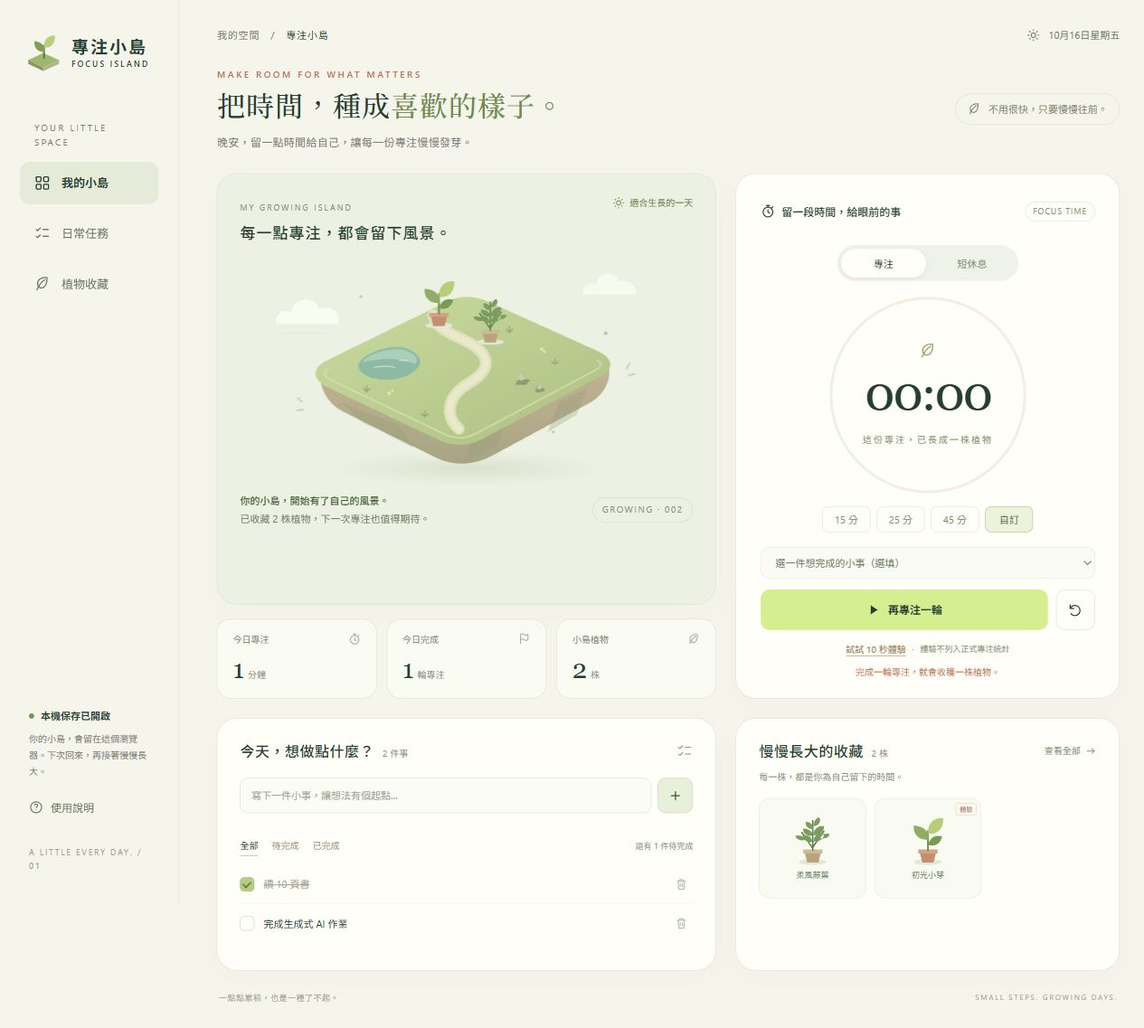
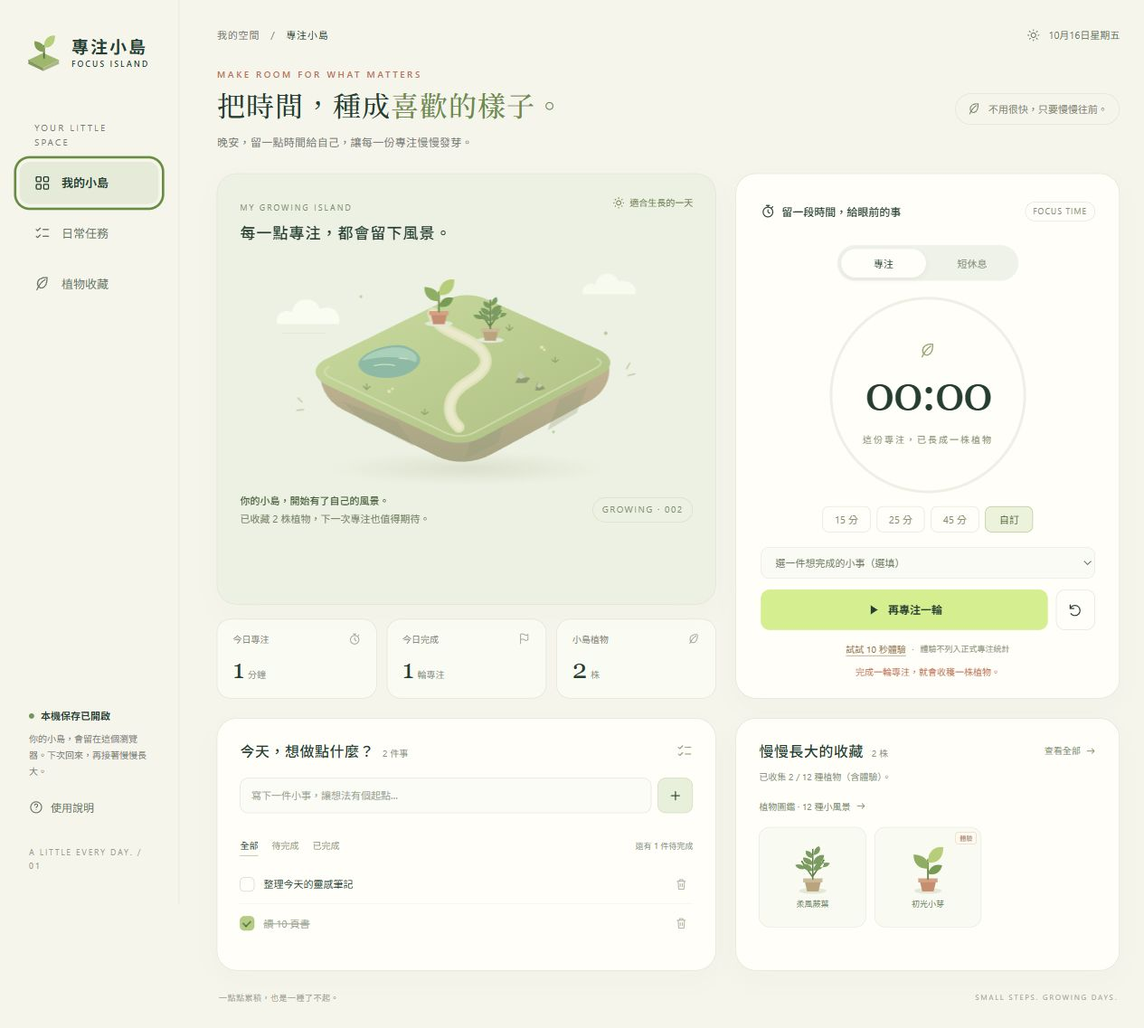
feat: expand plant collection to twelve species with a browsable catalog

diff --git a/index.html b/index.html
@@ -44,6 +44,149 @@
     <symbol id="plant-fern" viewBox="0 0 100 110"><ellipse cx="50" cy="99" rx="24" ry="5" fill="#e2e8d5"/><path d="M35 79h30l-5 21H40Z" fill="#baa480"/><path d="M33 77h34v7H33Z" fill="#caba98"/><path d="M50 79V25m0 50L30 46m20 27 20-29" fill="none" stroke="#60804b" stroke-width="2.5"/><path d="M49 64c-12 1-16-6-17-12 10-2 17 4 17 12m1-11c-13 1-18-7-17-13 10 0 17 5 17 13m0-12c-10 0-14-7-12-13 9 1 13 6 12 13m1-5c1-10 5-14 10-16 5 8-1 15-10 16m0 16c0-11 9-18 19-16-1 10-6 16-19 16m0 11c1-11 9-16 19-14-1 10-8 15-19 14M37 60c-9 3-16-1-18-7 8-2 15 0 18 7m25-3c9 2 16-1 18-7-8-3-15 1-18 7" fill="#7b9b61"/></symbol>
     <symbol id="plant-bloom" viewBox="0 0 100 110"><ellipse cx="50" cy="99" rx="24" ry="5" fill="#e2e8d5"/><path d="M35 79h30l-5 21H40Z" fill="#b28d72"/><path d="M33 77h34v7H33Z" fill="#cba68b"/><path d="M50 78V41m0 26L36 55m14 8 14-12" fill="none" stroke="#748a50" stroke-width="2.5"/><path d="M49 68c-17 2-22-8-23-14 14-3 23 5 23 14m2-5c1-15 10-20 22-17-2 14-10 18-22 17" fill="#9cb374"/><g fill="#cb9b7f"><ellipse cx="50" cy="29" rx="7" ry="13"/><ellipse cx="50" cy="48" rx="7" ry="13"/><ellipse cx="40" cy="36" rx="7" ry="13" transform="rotate(-60 40 36)"/><ellipse cx="60" cy="36" rx="7" ry="13" transform="rotate(60 60 36)"/><ellipse cx="41" cy="46" rx="7" ry="13" transform="rotate(60 41 46)"/><ellipse cx="59" cy="46" rx="7" ry="13" transform="rotate(-60 59 46)"/></g><circle cx="50" cy="39" r="8" fill="#e5d8a1"/></symbol>
     <symbol id="plant-tree" viewBox="0 0 100 110"><ellipse cx="50" cy="100" rx="25" ry="5" fill="#e2e8d5"/><path d="M36 81h28l-5 20H41Z" fill="#bd9274"/><path d="M34 79h32v6H34Z" fill="#d0a78a"/><path d="M50 80V40m0 23L37 49m13 6 13-14" fill="none" stroke="#877c51" stroke-width="3"/><path d="M32 60c-13-4-13-21-3-27-1-13 10-22 22-17 12-7 25 3 23 16 12 10 8 26-6 30-8 11-26 10-36-2Z" fill="#91ad69"/><path d="M31 48c-5-6-3-14 3-17 1-11 13-17 22-11-8 3-6 15-1 18-6 10-15 13-24 10Z" fill="#adc783"/><circle cx="65" cy="45" r="4" fill="#cddc9b"/></symbol>
+    <symbol id="plant-cactus" viewBox="0 0 100 110">
+  <ellipse cx="50" cy="99" rx="24" ry="5" fill="#e2e8d5"/>
+  <path d="M50 80V40M48 62H35c-6 0-9-4-9-10V44m26 23h14c6 0 10-4 10-10V48" fill="none" stroke="#71945d" stroke-width="13" stroke-linecap="round" stroke-linejoin="round"/>
+  <path d="M50 77V36" fill="none" stroke="#8faa70" stroke-width="20" stroke-linecap="round"/>
+  <path d="M47 36v40m8-36v34M26 44v9m50-4v9" fill="none" stroke="#b5cb92" stroke-width="1.8" stroke-linecap="round"/>
+  <path d="m41 47 3 1m12 8 3-1m-18 8 3 1m12-21 3 1" stroke="#d8e3bc" stroke-width="1.6" stroke-linecap="round"/>
+  <path d="M50 29c-12-1-14-11-7-13 3-1 6 2 7 6 2-7 9-9 12-4 3 6-5 11-12 11Z" fill="#d4a195"/>
+  <circle cx="51" cy="26" r="3" fill="#e9d6a6"/>
+  <path d="M35 79h30l-5 21H40Z" fill="#c68e70"/>
+  <path d="M33 77h34v7H33Z" fill="#d4a185"/>
+</symbol>
+<symbol id="plant-succulent" viewBox="0 0 100 110">
+  <ellipse cx="50" cy="99" rx="24" ry="5" fill="#e2e8d5"/>
+  <path d="M50 78C22 77 14 60 17 46c20 1 31 12 33 32Z" fill="#7f9c77"/>
+  <path d="M50 78c28-1 36-18 33-32-20 1-31 12-33 32Z" fill="#94af83"/>
+  <path d="M49 76C24 62 25 42 33 31c17 8 23 23 16 45Z" fill="#a5bd91"/>
+  <path d="M51 76c25-14 24-34 16-45-17 8-23 23-16 45Z" fill="#7f9f77"/>
+  <path d="M50 74C34 56 36 34 50 21c14 13 16 35 0 53Z" fill="#b6c9a0"/>
+  <path d="M50 78C31 80 23 71 21 60c16-2 27 5 29 18Z" fill="#a9bd8b"/>
+  <path d="M50 78c19 2 27-7 29-18-16-2-27 5-29 18Z" fill="#bccb9a"/>
+  <path d="M50 78c-11-11-10-25 0-35 10 10 11 24 0 35Z" fill="#8eaa76"/>
+  <path d="M50 77V54" stroke="#c7d5ad" stroke-width="1.5" stroke-linecap="round"/>
+  <path d="M34 79h32l-5 21H39Z" fill="#bd9274"/>
+  <path d="M32 77h36v7H32Z" fill="#d0a78a"/>
+</symbol>
+<symbol id="plant-monstera" viewBox="0 0 100 110">
+  <ellipse cx="50" cy="99" rx="24" ry="5" fill="#e2e8d5"/>
+  <path d="M49 81V58c0-13 10-18 14-24M49 67c-1-15-8-20-16-25" fill="none" stroke="#66854f" stroke-width="3" stroke-linecap="round"/>
+  <path d="M44 61C28 63 14 53 16 39c1-10 9-16 16-12 5-6 14-3 18 5 4 8 3 20-6 29Zm-20-21c-2 4 1 8 4 7 3-1 1-8-4-7Zm14-6c-3 2-1 8 2 8 4 0 3-8-2-8Z" fill="#89a56b" fill-rule="evenodd"/>
+  <path d="m19 49 9 1m-1-20 2 8m9 19 1-9" fill="none" stroke="#e9efda" stroke-width="3" stroke-linecap="round"/>
+  <path d="M54 56c-7-12-9-28 2-36 7-5 13-2 15 3 9-2 15 5 15 14 0 14-14 25-32 19Zm4-25c-3 1-3 8 0 9 4 1 6-9 0-9Zm14 1c-4 2-5 8-1 8 4 0 7-9 1-8Z" fill="#63895c" fill-rule="evenodd"/>
+  <path d="m81 29-7 6m9 11-11-1m-8 10 2-9" fill="none" stroke="#e9efda" stroke-width="3.2" stroke-linecap="round"/>
+  <path d="m43 58-12-15m24 9 13-20" fill="none" stroke="#a9bf86" stroke-width="1.4" stroke-linecap="round"/>
+  <path d="M35 79h30l-5 21H40Z" fill="#c68e70"/>
+  <path d="M33 77h34v7H33Z" fill="#d4a185"/>
+</symbol>
+<symbol id="plant-sunflower" viewBox="0 0 100 110">
+  <ellipse cx="50" cy="99" rx="24" ry="5" fill="#e2e8d5"/>
+  <path d="M50 80V40" stroke="#748a50" stroke-width="3" stroke-linecap="round"/>
+  <path d="M49 70C30 72 24 62 25 54c16-1 24 5 24 16Z" fill="#8faa66"/>
+  <path d="M51 64c0-14 11-21 23-19-1 15-10 21-23 19Z" fill="#a5bc79"/>
+  <g fill="#e1c675">
+    <ellipse cx="50" cy="21" rx="6" ry="11"/>
+    <ellipse cx="50" cy="21" rx="6" ry="11" transform="rotate(45 50 33)"/>
+    <ellipse cx="50" cy="21" rx="6" ry="11" transform="rotate(90 50 33)"/>
+    <ellipse cx="50" cy="21" rx="6" ry="11" transform="rotate(135 50 33)"/>
+    <ellipse cx="50" cy="21" rx="6" ry="11" transform="rotate(180 50 33)"/>
+    <ellipse cx="50" cy="21" rx="6" ry="11" transform="rotate(225 50 33)"/>
+    <ellipse cx="50" cy="21" rx="6" ry="11" transform="rotate(270 50 33)"/>
+    <ellipse cx="50" cy="21" rx="6" ry="11" transform="rotate(315 50 33)"/>
+  </g>
+  <circle cx="50" cy="33" r="11" fill="#9d8056"/>
+  <circle cx="47" cy="30" r="2" fill="#c6a774"/>
+  <circle cx="54" cy="31" r="1.6" fill="#c6a774"/>
+  <circle cx="50" cy="37" r="1.8" fill="#c6a774"/>
+  <path d="M35 79h30l-5 21H40Z" fill="#b78f71"/>
+  <path d="M33 77h34v7H33Z" fill="#cfa68a"/>
+</symbol>
+<symbol id="plant-lavender" viewBox="0 0 100 110">
+  <ellipse cx="50" cy="99" rx="24" ry="5" fill="#e2e8d5"/>
+  <path d="M48 80 36 36m16 44 12-43M50 80V22" fill="none" stroke="#7e936e" stroke-width="2.5" stroke-linecap="round"/>
+  <path d="M45 71C30 66 24 55 27 49c10 5 16 12 18 22m10 0c15-5 21-16 18-22-10 5-16 12-18 22m-5 4c-10-8-11-18-7-24 6 6 8 14 7 24" fill="#9db085"/>
+  <g fill="#a299b8">
+    <ellipse cx="32" cy="41" rx="4.5" ry="7" transform="rotate(-28 32 41)"/>
+    <ellipse cx="38" cy="45" rx="4.5" ry="7" transform="rotate(25 38 45)"/>
+    <ellipse cx="31" cy="33" rx="4.5" ry="7" transform="rotate(-28 31 33)"/>
+    <ellipse cx="37" cy="37" rx="4.5" ry="7" transform="rotate(25 37 37)"/>
+    <ellipse cx="32" cy="27" rx="4" ry="6"/>
+    <ellipse cx="61" cy="46" rx="4.5" ry="7" transform="rotate(-25 61 46)"/>
+    <ellipse cx="68" cy="41" rx="4.5" ry="7" transform="rotate(28 68 41)"/>
+    <ellipse cx="63" cy="38" rx="4.5" ry="7" transform="rotate(-25 63 38)"/>
+    <ellipse cx="69" cy="33" rx="4.5" ry="7" transform="rotate(28 69 33)"/>
+    <ellipse cx="68" cy="27" rx="4" ry="6"/>
+  </g>
+  <g fill="#8d82a9">
+    <ellipse cx="46" cy="34" rx="4.5" ry="7" transform="rotate(-30 46 34)"/>
+    <ellipse cx="54" cy="34" rx="4.5" ry="7" transform="rotate(30 54 34)"/>
+    <ellipse cx="46" cy="26" rx="4.5" ry="7" transform="rotate(-30 46 26)"/>
+    <ellipse cx="54" cy="26" rx="4.5" ry="7" transform="rotate(30 54 26)"/>
+    <ellipse cx="50" cy="17" rx="4.5" ry="7"/>
+  </g>
+  <path d="M35 79h30l-5 21H40Z" fill="#b78f78"/>
+  <path d="M33 77h34v7H33Z" fill="#cda78d"/>
+</symbol>
+<symbol id="plant-tulip" viewBox="0 0 100 110">
+  <ellipse cx="50" cy="99" rx="24" ry="5" fill="#e2e8d5"/>
+  <path d="M50 80V43M44 80 31 53m25 27 13-27" fill="none" stroke="#7b925d" stroke-width="2.5" stroke-linecap="round"/>
+  <path d="M49 80C29 73 22 58 23 46c15 8 24 20 26 34Z" fill="#91aa6e"/>
+  <path d="M52 80c1-18 10-31 24-39 0 18-8 31-24 39Z" fill="#aac081"/>
+  <path d="M50 80C39 67 38 54 42 45c9 10 12 22 8 35Z" fill="#b8ca8f"/>
+  <path d="M36 23c6 0 10 5 14 10 4-5 8-10 14-10l-1 15c-1 10-6 16-13 16s-12-6-13-16Z" fill="#cf9b92"/>
+  <path d="M42 24c3-2 6-5 8-9 3 4 5 7 8 9l-2 18c-1 6-3 9-6 11-4-3-6-7-6-13Z" fill="#e0b0a6"/>
+  <path d="M21 37c4 0 7 4 10 7 3-3 6-7 10-7l-1 11c0 8-4 12-9 12s-9-4-9-12Z" fill="#d7b797"/>
+  <path d="m25 38 6-7 6 7-2 15-4 6-4-6Z" fill="#e5c9a8"/>
+  <path d="M59 35c4 0 7 4 10 7 3-3 6-7 10-7l-1 12c0 8-4 12-9 12s-9-4-9-12Z" fill="#ba8d9c"/>
+  <path d="m63 36 6-7 6 7-2 16-4 6-4-6Z" fill="#d0a5b0"/>
+  <path d="M35 79h30l-5 21H40Z" fill="#c0957b"/>
+  <path d="M33 77h34v7H33Z" fill="#d3ad93"/>
+</symbol>
+<symbol id="plant-bamboo" viewBox="0 0 100 110">
+  <ellipse cx="50" cy="99" rx="24" ry="5" fill="#e2e8d5"/>
+  <path d="M37 80V31m13 49V18m13 62V27" fill="none" stroke="#8fa66a" stroke-width="7" stroke-linecap="round"/>
+  <path d="M35 78V33m13 45V20m13 58V29" fill="none" stroke="#b7c68d" stroke-width="1.5" stroke-linecap="round"/>
+  <path d="M33 44h8m-8 17h8m5-27h8m-8 20h8m-8 17h8m5-29h8m-8 19h8" stroke="#6f8656" stroke-width="2" stroke-linecap="round"/>
+  <path d="M37 48C22 47 14 39 13 32c11 2 19 7 24 16m0 12c-15 1-23-4-26-11 12-1 21 3 26 11m13-22c-13-2-20-9-21-17 10 2 17 8 21 17m1 15c7-12 17-17 28-16-5 10-15 15-28 16m12-13c6-13 15-19 24-19-3 10-11 17-24 19m0 18c10-9 20-11 29-7-7 7-17 9-29 7" fill="#7f9a5f"/>
+  <path d="M37 67c-8-8-17-11-25-8 6 7 14 10 25 8m14-41c6-9 12-12 19-11-3 8-9 12-19 11m12 43c8-7 15-9 22-6-5 6-12 8-22 6" fill="#a5ba7b"/>
+  <path d="M34 79h32l-5 21H39Z" fill="#bb9073"/>
+  <path d="M32 77h36v7H32Z" fill="#cfa488"/>
+</symbol>
+<symbol id="plant-sakura" viewBox="0 0 100 110">
+  <ellipse cx="50" cy="99" rx="24" ry="5" fill="#e2e8d5"/>
+  <path d="M50 81V52L34 36m16 29 19-22M50 54l6-23" fill="none" stroke="#96816a" stroke-width="3.5" stroke-linecap="round" stroke-linejoin="round"/>
+  <path d="m34 38-11-3m12 3 1-15m20 13 13-9m-1 19 10 3" fill="none" stroke="#a48e74" stroke-width="2" stroke-linecap="round"/>
+  <g fill="#d5a7a7">
+    <circle cx="24" cy="31" r="11"/>
+    <circle cx="37" cy="23" r="12"/>
+    <circle cx="54" cy="27" r="13"/>
+    <circle cx="69" cy="27" r="10"/>
+    <circle cx="77" cy="42" r="12"/>
+    <circle cx="62" cy="46" r="13"/>
+    <circle cx="43" cy="43" r="13"/>
+    <circle cx="27" cy="46" r="10"/>
+  </g>
+  <g fill="#e6beb8">
+    <circle cx="23" cy="28" r="8"/>
+    <circle cx="37" cy="20" r="9"/>
+    <circle cx="52" cy="24" r="10"/>
+    <circle cx="70" cy="25" r="7"/>
+    <circle cx="76" cy="39" r="8"/>
+    <circle cx="59" cy="43" r="9"/>
+    <circle cx="38" cy="40" r="9"/>
+  </g>
+  <g fill="#f5dfcd">
+    <circle cx="36" cy="23" r="2.2"/>
+    <circle cx="53" cy="32" r="2.2"/>
+    <circle cx="72" cy="41" r="2.2"/>
+    <circle cx="30" cy="43" r="2"/>
+  </g>
+  <path d="M69 59c5-2 8 0 7 4-5 2-8 0-7-4Z" fill="#e5bab2"/>
+  <path d="M24 61c4-1 7 1 6 4-4 1-7-1-6-4Z" fill="#d9aba8"/>
+  <path d="M35 79h30l-5 21H40Z" fill="#bd9274"/>
+  <path d="M33 77h34v7H33Z" fill="#d0a78a"/>
+</symbol>
   </defs></svg>
   <aside class="sidebar" aria-label="主要導覽">
     <a class="brand" href="#main" aria-label="專注小島首頁"><svg class="brand-mark" viewBox="0 0 45 48" aria-hidden="true"><path d="m3 34 19 10 20-10-20-9Z" fill="#9eb76d"/><path d="m3 34 19 10v4L3 39Z" fill="#849860"/><path d="m22 44 20-10v5L22 48Z" fill="#aab786"/><path d="M23 32V15" fill="none" stroke="#536d40" stroke-width="2"/><path d="M23 24C11 23 10 14 11 10c9 1 14 6 12 14Z" fill="#829d55"/><path d="M23 18C22 6 31 2 37 3c0 10-5 16-14 15Z" fill="#b7ce7c"/></svg><span class="brand-name">專注小島<small>FOCUS ISLAND</small></span></a>
@@ -81,23 +224,24 @@
       </section>
     </div>
     <div class="bottom-grid"><section class="card tasks-card" id="tasks" aria-labelledby="tasksTitle"><div class="card-heading"><div class="heading-group"><h2 id="tasksTitle">今天，想做點什麼？</h2><span class="small-count" id="taskTotal">0 件事</span></div><svg class="icon" style="color:#9caa83;width:18px;height:18px" aria-hidden="true"><use href="#i-checklist"/></svg></div><form class="task-form" id="taskForm" novalidate><label class="sr-only" for="taskInput">新增任務，1 至 80 字</label><input class="task-input" id="taskInput" type="text" maxlength="80" placeholder="寫下一件小事，讓想法有個起點…" autocomplete="off" aria-describedby="taskError"><button type="submit" class="add-button" aria-label="新增任務"><svg class="icon" aria-hidden="true"><use href="#i-plus"/></svg></button></form><p class="field-error" id="taskError" aria-live="polite"></p><div class="filter-row"><div class="filters" aria-label="篩選任務"><button type="button" data-filter="all" aria-pressed="true">全部</button><button type="button" data-filter="pending" aria-pressed="false">待完成</button><button type="button" data-filter="done" aria-pressed="false">已完成</button></div><span class="remaining-count" id="remainingCount">還有 0 件待完成</span></div><ul class="task-list" id="taskList" aria-label="任務清單"></ul><div class="empty-tasks" id="emptyTasks"><p>大大小小的事，都值得好好完成。</p><small>從一個建議開始，或寫下你自己的任務。</small><div class="suggestions"><button type="button" class="suggestion" data-suggestion="讀 10 頁喜歡的書">建議：讀 10 頁書 ＋</button><button type="button" class="suggestion" data-suggestion="整理今天的課堂筆記">建議：整理筆記 ＋</button><button type="button" class="suggestion" data-suggestion="留一段時間完成作業">建議：完成作業 ＋</button></div></div></section>
-      <section class="card collection-card" id="collection" aria-labelledby="collectionTitle"><div class="card-heading"><div class="heading-group"><h2 id="collectionTitle">慢慢長大的收藏</h2><span class="small-count" id="collectionCount">0 株</span></div><button type="button" class="text-button" id="allPlantsButton">查看全部<svg class="icon" aria-hidden="true"><use href="#i-arrow"/></svg></button></div><p class="collection-subtitle">每一株，都是你為自己留下的時間。</p><div class="plant-grid" id="collectionGrid"></div><div class="empty-garden" id="emptyGarden"><svg class="icon" aria-hidden="true"><use href="#i-leaf"/></svg><p>你的小花園，正等著第一株新朋友。</p><small>完成專注，讓這裡一點一點熱鬧起來。</small></div></section></div>
+      <section class="card collection-card" id="collection" aria-labelledby="collectionTitle"><div class="card-heading"><div class="heading-group"><h2 id="collectionTitle">慢慢長大的收藏</h2><span class="small-count" id="collectionCount">0 株</span></div><button type="button" class="text-button" id="allPlantsButton">查看全部<svg class="icon" aria-hidden="true"><use href="#i-arrow"/></svg></button></div><p class="collection-subtitle" id="collectionDiversity">每一株，都是你為自己留下的時間。</p><button type="button" class="text-button" id="catalogButton" style="margin-bottom:14px">植物圖鑑 · 12 種小風景<svg class="icon" aria-hidden="true"><use href="#i-arrow"/></svg></button><div class="plant-grid" id="collectionGrid"></div><div class="empty-garden" id="emptyGarden"><svg class="icon" aria-hidden="true"><use href="#i-leaf"/></svg><p>你的小花園，正等著第一株新朋友。</p><small>完成專注，讓這裡一點一點熱鬧起來。</small></div></section></div>
     <footer class="page-footer"><span>一點點累積，也是一種了不起。</span><button type="button" class="text-button mobile-help" id="mobileHelpButton" style="display:none"><svg class="icon" aria-hidden="true"><use href="#i-help"/></svg>使用說明與保存狀態</button><span>SMALL STEPS. GROWING DAYS.</span></footer>
   </main>
-  <dialog id="helpDialog" aria-labelledby="helpTitle"><button type="button" class="dialog-close" data-close="helpDialog" aria-label="關閉使用說明"><svg class="icon" aria-hidden="true"><use href="#i-close"/></svg></button><div class="eyebrow">A LITTLE GUIDE</div><h2 id="helpTitle">讓專注，慢慢長成日常。</h2><ul><li>寫下任務，選擇 15、25、45 分鐘，或自訂 <strong>1–60 分鐘</strong>，再按「開始專注」。</li><li>完成一輪正式專注，收穫一株植物。今日統計只計算已完成的正式專注；暫停或重設不會獲得植物。專注任務完成後，請自行打勾。</li><li><strong>10 秒體驗</strong>也會獲得一株標示「體驗」的植物，但不計入正式專注分鐘與輪數。短休息固定 5 分鐘，不會種植。</li><li>切換分頁或重新整理後，計時會依實際時間繼續；下次開啟時，已完成的一輪只會獎勵一次。關閉網頁時不會發出通知。</li><li>資料保存在<strong>目前瀏覽器的本機儲存空間</strong>，不會上傳，也不會跨裝置同步。清除網站資料、使用無痕模式、變更瀏覽器，或從本機檔案改到網站網址，可能看不到原本的資料。</li></ul><p id="helpStorageState"></p><div class="dialog-actions"><button type="button" class="primary-button" data-close="helpDialog">開始慢慢長大</button></div></dialog>
+  <dialog id="helpDialog" aria-labelledby="helpTitle"><button type="button" class="dialog-close" data-close="helpDialog" aria-label="關閉使用說明"><svg class="icon" aria-hidden="true"><use href="#i-close"/></svg></button><div class="eyebrow">A LITTLE GUIDE</div><h2 id="helpTitle">讓專注，慢慢長成日常。</h2><ul><li>寫下任務，選擇 15、25、45 分鐘，或自訂 <strong>1–60 分鐘</strong>，再按「開始專注」。</li><li>完成一輪正式專注，收穫一株植物。今日統計只計算已完成的正式專注；暫停或重設不會獲得植物。專注任務完成後，請自行打勾。</li><li><strong>10 秒體驗</strong>也會獲得一株標示「體驗」的植物，但不計入正式專注分鐘與輪數。短休息固定 5 分鐘，不會種植。</li><li>共有 <strong>12 種植物</strong>，依完成輪次循環出現。可打開「植物圖鑑」預覽每種造型；預覽不會增加植物或成果。</li><li>切換分頁或重新整理後，計時會依實際時間繼續；下次開啟時，已完成的一輪只會獎勵一次。關閉網頁時不會發出通知。</li><li>資料保存在<strong>目前瀏覽器的本機儲存空間</strong>，不會上傳，也不會跨裝置同步。清除網站資料、使用無痕模式、變更瀏覽器，或從本機檔案改到網站網址，可能看不到原本的資料。</li></ul><p id="helpStorageState"></p><div class="dialog-actions"><button type="button" class="primary-button" data-close="helpDialog">開始慢慢長大</button></div></dialog>
   <dialog id="confirmDialog" aria-labelledby="confirmTitle" aria-describedby="confirmText"><h2 id="confirmTitle">要重新開始這一輪嗎？</h2><p id="confirmText">目前的計時進度將會清除，這一輪不會獲得植物。</p><div class="dialog-actions"><button type="button" class="secondary-button" id="cancelConfirm">保留計時</button><button type="button" class="primary-button" id="acceptConfirm">確定重新開始</button></div></dialog>
   <dialog id="customDialog" aria-labelledby="customTitle"><button type="button" class="dialog-close" data-close="customDialog" aria-label="關閉自訂時長"><svg class="icon" aria-hidden="true"><use href="#i-close"/></svg></button><div class="eyebrow">YOUR OWN PACE</div><h2 id="customTitle">找到剛剛好的節奏。</h2><form id="customForm" novalidate><label class="custom-label" for="customMinutes">想專注多久？</label><div class="custom-field"><input id="customMinutes" type="number" min="1" max="60" step="1" inputmode="numeric" value="25" aria-describedby="customError"><span>分鐘（1–60）</span></div><p class="field-error" id="customError" aria-live="polite"></p><div class="dialog-actions"><button type="button" class="secondary-button" data-close="customDialog">先不調整</button><button type="submit" class="primary-button">設定專注時間</button></div></form></dialog>
   <dialog id="plantDialog" aria-labelledby="plantDetailTitle"><button type="button" class="dialog-close" data-close="plantDialog" aria-label="關閉植物介紹"><svg class="icon" aria-hidden="true"><use href="#i-close"/></svg></button><span class="detail-label" id="plantDetailLabel">A MOMENT, A LITTLE GROWTH</span><svg class="detail-plant" viewBox="0 0 100 110" aria-hidden="true"><use id="plantDetailArt" href="#plant-sprout"/></svg><h2 class="detail-title" id="plantDetailTitle"></h2><p class="detail-info" id="plantDetailInfo"></p><p class="detail-info" id="plantDetailMessage"></p><div class="dialog-actions"><button type="button" class="primary-button" data-close="plantDialog">好好收藏</button></div></dialog>
   <dialog class="garden-dialog" id="gardenDialog" aria-labelledby="gardenDialogTitle"><button type="button" class="dialog-close" data-close="gardenDialog" aria-label="關閉全部收藏"><svg class="icon" aria-hidden="true"><use href="#i-close"/></svg></button><div class="eyebrow">EVERY LITTLE EFFORT COUNTS</div><h2 id="gardenDialogTitle">你留下的每一份專注。</h2><p id="gardenDialogDescription"></p><div class="plant-grid" id="allPlantsGrid"></div><button type="button" class="secondary-button load-more" id="loadMorePlants">再看看更多植物</button></dialog>
+  <dialog class="garden-dialog" id="catalogDialog" aria-labelledby="catalogTitle"><button type="button" class="dialog-close" data-close="catalogDialog" aria-label="關閉植物圖鑑"><svg class="icon" aria-hidden="true"><use href="#i-close"/></svg></button><div class="eyebrow">TWELVE WAYS TO GROW</div><h2 id="catalogTitle">把小島，種成更多可能。</h2><p id="catalogDescription"></p><div class="plant-grid" id="catalogGrid"></div><p>每完成一輪專注或 10 秒體驗，依序遇見一款植物；12 種輪流出現，每一株都會保留。</p></dialog>
   <div class="toast" id="toast"><span id="toastText"></span><button type="button" id="undoButton" hidden>撤銷刪除</button></div><div class="sr-only" id="announcer" role="status" aria-live="polite" aria-atomic="true"></div><div class="leaf-burst" id="leafBurst" aria-hidden="true"></div>
   <script>
   (() => {
     'use strict';
     const STORAGE_KEY = 'focus-island:v1';
     const $ = id => document.getElementById(id);
-    const species = ['sprout', 'fern', 'bloom', 'tree'];
-    const plantNames = {sprout:'初光小芽',fern:'柔風蕨葉',bloom:'暖陽小花',tree:'安靜小樹'};
-    const plantMessages = {sprout:'每個小小的開始，都藏著慢慢長大的可能。',fern:'一步一步地舒展，找到屬於自己的節奏。',bloom:'認真照顧的時間，終於開成了一朵小花。',tree:'今天留下的專注，會成為明天溫柔的樹蔭。'};
+    const species = ['sprout', 'fern', 'bloom', 'tree', 'cactus', 'succulent', 'monstera', 'sunflower', 'lavender', 'tulip', 'bamboo', 'sakura'];
+    const plantNames = {sprout:'初光小芽',fern:'柔風蕨葉',bloom:'暖陽小花',tree:'安靜小樹',cactus:'晴日仙人掌',succulent:'圓夢多肉',monstera:'森呼吸龜背芋',sunflower:'向光向日葵',lavender:'暮色薰衣草',tulip:'春日鬱金香',bamboo:'節節青竹',sakura:'微風櫻花'};
+    const plantMessages = {sprout:'每個小小的開始，都藏著慢慢長大的可能。',fern:'一步一步地舒展，找到屬於自己的節奏。',bloom:'認真照顧的時間，終於開成了一朵小花。',tree:'今天留下的專注，會成為明天溫柔的樹蔭。',cactus:'慢一點也沒關係，你正用自己的方式好好生長。',succulent:'把小小的努力存起來，日常也能變得圓滿可愛。',monstera:'給想法一點空間，讓專注慢慢舒展成新的風景。',sunflower:'朝著想去的方向，再向前一小步就很好。',lavender:'把紛亂的念頭放輕，為自己留一段安靜的時間。',tulip:'不急著盛開，每一段準備都有自己的意義。',bamboo:'今天的一小節努力，正在接近明天的自己。',sakura:'認真生活的小片刻，也值得被溫柔收藏。'};
     const svgNS = 'http://www.w3.org/2000/svg';
     let filter = 'all', toastTimeout, undoTask = null, storageIssue = '', gardenLimit = 24, lastDate = '';
     let confirmResolve = null;
@@ -201,6 +345,8 @@
       $('emptyGarden').style.display=state.plants.length>0?'none':'flex';
       $('allPlantsButton').disabled=state.plants.length===0;
       renderStats();renderIsland();
+      $('collectionDiversity').textContent='已收集 '+new Set(state.plants.map(p=>p.species)).size+' / '+species.length+' 種植物（含體驗）。';
+      if($('catalogDialog').open)renderCatalog();
       if($('gardenDialog').open) renderAllPlants();
     }
     function showPlant(plant) {
@@ -210,6 +356,26 @@
       const formatted=new Intl.DateTimeFormat('zh-TW',{year:'numeric',month:'long',day:'numeric',hour:'2-digit',minute:'2-digit'}).format(new Date(plant.createdAt));
       $('plantDetailInfo').textContent=formatted+' · '+(plant.demo?'10 秒體驗植物，不列入正式專注統計。':'完成 '+plant.minutes+' 分鐘專注的紀念。');
       $('plantDetailMessage').textContent=plantMessages[plant.species];$('plantDialog').showModal();
+    }
+    function showSpecies(kind) {
+      const count=state.plants.filter(p=>p.species===kind).length;
+      $('plantDetailArt').setAttribute('href','#plant-'+kind);
+      $('plantDetailLabel').textContent='植物圖鑑 · '+(species.indexOf(kind)+1)+' / '+species.length;
+      $('plantDetailTitle').textContent=plantNames[kind];
+      $('plantDetailInfo').textContent=count?'已收藏 '+count+' 株（含體驗），每一株都是你留下的時間。':'尚未收集。完成倒數，依序遇見這一款小風景。';
+      $('plantDetailMessage').textContent=plantMessages[kind];$('plantDialog').showModal();
+    }
+    function renderCatalog() {
+      const owned=new Set(state.plants.map(p=>p.species));
+      $('catalogDescription').textContent='已收集 '+owned.size+' / '+species.length+' 種植物（含體驗）。點選植物，看看它的小小心意。';
+      const grid=$('catalogGrid');grid.replaceChildren();
+      species.forEach(kind=>{
+        const button=document.createElement('button');button.type='button';button.className='plant-tile';button.setAttribute('aria-label',plantNames[kind]+'，'+(owned.has(kind)?'已收集':'等待發芽')+'，查看圖鑑');
+        button.append(svgUse('plant-'+kind,'','0 0 100 110'));
+        const name=document.createElement('span');name.className='plant-name';name.textContent=plantNames[kind];button.append(name);
+        const badge=document.createElement('span');badge.className='plant-tiny-badge';badge.textContent=owned.has(kind)?'已收集':'待發芽';button.append(badge);
+        button.addEventListener('click',()=>showSpecies(kind));grid.append(button);
+      });
     }
     function renderAllPlants() {
       $('gardenDialogDescription').textContent='共 '+state.plants.length+' 株植物，其中 '+state.plants.filter(p=>p.demo).length+' 株為體驗植物。依獲得時間由新到舊排列。';
@@ -317,6 +483,7 @@
     $('cancelConfirm').addEventListener('click',()=>resolveConfirm(false));$('acceptConfirm').addEventListener('click',()=>resolveConfirm(true));$('confirmDialog').addEventListener('cancel',event=>{event.preventDefault();resolveConfirm(false);});
     document.querySelectorAll('[data-close]').forEach(button=>button.addEventListener('click',()=>$(button.dataset.close).close()));
     $('helpButton').addEventListener('click',()=>{$('helpDialog').showModal();});$('mobileHelpButton').addEventListener('click',()=>{$('helpDialog').showModal();});
+    $('catalogButton').addEventListener('click',()=>{renderCatalog();$('catalogDialog').showModal();});
     $('allPlantsButton').addEventListener('click',()=>{gardenLimit=24;renderAllPlants();$('gardenDialog').showModal();});$('loadMorePlants').addEventListener('click',()=>{gardenLimit+=24;renderAllPlants();});
     document.querySelectorAll('[data-nav]').forEach(link=>link.addEventListener('click',()=>{document.querySelectorAll('[data-nav]').forEach(other=>{other.classList.remove('active');other.removeAttribute('aria-current');});link.classList.add('active');link.setAttribute('aria-current','page');}));
     document.addEventListener('visibilitychange',()=>{if(!document.hidden)tick();});

diff --git a/README.md b/README.md
@@ -1,42 +1,53 @@
 # 專注小島 Focus Island
 
-一個把任務、專注倒數與種植回饋放在一起的互動網頁。完成一輪專注，讓小島多一點綠意。
+把專注的時間，種成一座小島。
 
-## 開啟作品
+專注小島是一個輕量的個人專注工具，結合任務清單、倒數計時與植物收藏。從一件想完成的小事開始，每完成一輪專注，就為自己的小島留下一株植物。
 
-直接用瀏覽器開啟 `index.html` 即可操作，不需安裝套件。網頁程式、樣式和插畫都在同一檔案內。
+**[線上體驗](https://xinyou1220.github.io/focus-island/)**
 
-先新增一個小任務，再開始專注。想快速確認互動時，可使用「10 秒體驗」；體驗植物會清楚標示，且不計入正式專注統計。資料只保存在目前裝置的此瀏覽器，不會雲端同步。
+![專注小島介面](screenshots/desktop-verified.jpg)
 
-## 作業材料
+## 功能
 
-- `index.html`：可操作的完整網頁。
-- `SPEC.md`：功能、介面、資料規則及驗收條件。
-- `AI_NOTES.md`：真實的 AI 協作與修改紀錄。
-- `TEST_RESULTS.md`：實際驗證結果與限制。
-- `SUBMISSION.md`：可貼到作業文字輸入區的繳交草稿。
-- `screenshots/`：完成驗證後保留的介面截圖。
-- `tests/timer-check.cjs`：可重現的 14 項計時與保存邏輯測試，使用 Node 執行；網頁本身不需要它。
+- **任務清單**：新增、完成、篩選與刪除任務，支援撤銷刪除。
+- **專注倒數**：15、25、45 分鐘快捷設定，或自訂 1～60 分鐘；可暫停、繼續與重設。
+- **短暫休息**：提供 5 分鐘休息模式，讓下一段專注更有餘裕。
+- **12 種植物**：完成倒數後依序獲得植物，收藏會隨每一輪努力慢慢增加。
+- **植物圖鑑**：預覽所有植物造型與專屬文字，查看已收集的種類。
+- **10 秒體驗**：快速走完計時到種植的流程，體驗成果獨立標示。
+- **自動保存**：任務、植物與計時狀態保存在目前瀏覽器，重新開啟可接續使用。
+- **響應式介面**：支援桌面與手機、鍵盤操作及減少動態效果偏好。
 
-## GitHub Pages 發布
+## 遇見 12 種小風景
 
-網站網址：[專注小島](https://xinyou1220.github.io/focus-island/)（已發布並完成公開操作驗證）
+初光小芽、柔風蕨葉、暖陽小花、安靜小樹、晴日仙人掌、圓夢多肉、森呼吸龜背芋、向光向日葵、暮色薰衣草、春日鬱金香、節節青竹、微風櫻花。
 
-原始碼：[GitHub 儲存庫](https://github.com/xinyou1220/focus-island)
+每獲得一株植物就前進一種，12 種循環出現。圖鑑預覽不會增加收藏數；體驗植物會保留「體驗」標記，不列入正式專注分鐘與輪數。
 
-![專注小島操作後的介面截圖](screenshots/desktop-verified.jpg)
+![12 種植物圖鑑](screenshots/plant-catalog.jpg)
 
-若使用 GitHub 網站手動上傳：
+## 開始使用
 
-1. 在自己的 GitHub 建立公開儲存庫，名稱可使用 `focus-island`。
-2. 將 `index.html` 上傳到儲存庫最外層並提交。規格、紀錄與截圖可一併上傳供查閱；網頁本身只需要 `index.html`。
-3. 開啟儲存庫的 **Settings → Pages**。
-4. 在 **Build and deployment** 選擇 **Deploy from a branch**，分支選 `main`、資料夾選 `/(root)`，儲存。
-5. 等待部署完成，使用 Pages 頁面顯示的實際網站網址；不要把儲存庫頁面或本機預覽連結當成繳交網址。
-6. 用未登入的視窗開啟網站，測試新增任務及 10 秒體驗，再將真實網址填入 `SUBMISSION.md`。
+1. 開啟 [線上網站](https://xinyou1220.github.io/focus-island/)，或直接用瀏覽器開啟 `index.html`。
+2. 寫下一件想完成的小事，選擇這一輪的專注時間。
+3. 按下開始，完成後到小島與收藏看看新植物。
 
-上述發布方式依據 [GitHub 官方：建立 Pages 網站](https://docs.github.com/en/pages/getting-started-with-github-pages/creating-a-github-pages-site) 與 [設定發布來源](https://docs.github.com/en/pages/getting-started-with-github-pages/configuring-a-publishing-source-for-your-github-pages-site)。
+不需要帳號、安裝步驟或後端服務。HTML、CSS、JavaScript 與 SVG 插畫都包含在單一 `index.html`，沒有外部字型或程式庫依賴。
 
-## 繳交提醒
+## 專案內容
 
-依作業要求，正常期限為 **2026/10/19 23:59（台灣時間）**，遲交期限為 **2026/10/20 16:00**。在課程的文字輸入區提交標題、公開網站連結、介面截圖及規格文字；不用另做 PDF。
+- `index.html`：完整應用程式與內嵌植物插畫。
+- `SPEC.md`：功能規則與介面規格。
+- `tests/timer-check.cjs`：計時、保存、收藏與資料相容性檢查。
+- `screenshots/`：桌面、手機與植物圖鑑截圖。
+
+使用 Node.js 可執行邏輯檢查：
+
+```sh
+node tests/timer-check.cjs
+```
+
+## 資料保存
+
+進度使用 localStorage 儲存在目前裝置的此瀏覽器，沒有雲端同步。清除網站資料、切換瀏覽器或網址，可能看不到原本的進度。網頁關閉時不會發出通知；再次開啟後會依保存的截止時間恢復與結算。

diff --git a/SUBMISSION.md b/SUBMISSION.md
@@ -28,7 +28,7 @@
 
 1. 任務清單：新增 1～80 字任務、勾選與取消完成、刪除及撤銷，並依全部、待完成、已完成篩選。
 2. 專注計時：預設 25 分鐘，提供 15、25、45 分鐘與 1～60 分鐘自訂；可開始、暫停、繼續及重設，重設進行中的一輪前會先確認。
-3. 種植互動：每完成一輪正式專注獲得一株植物，小島與收藏同步更新；勾選任務、暫停或中途重設不會直接獲得植物。
+3. 種植互動：每完成一輪正式專注獲得一株植物，共有 12 種造型，依獲得順序循環出現；植物圖鑑可預覽全部種類與已收集狀態。小島與收藏同步更新，勾選任務、暫停或中途重設不會直接獲得植物。
 4. 快速體驗：提供 10 秒體驗，方便驗證完整互動；獲得的體驗植物會標示，且不計入正式專注分鐘與輪數。
 5. 休息與統計：提供 5 分鐘短休息，並顯示今日正式專注分鐘、完成輪數及累積植物。休息不發植物獎勵。
 6. 自動保存：透過 localStorage 儲存任務、植物與計時狀態，重新整理後可恢復。倒數依預計結束時間計算，減少背景分頁造成的誤差，同一輪只會結算一次。
@@ -36,6 +36,6 @@
 
 **技術與限制：** 全部 HTML、CSS、JavaScript 及插畫整理於單一 index.html，無需後端或外部程式庫。資料只保存在同一網址、同一裝置的此瀏覽器，不跨裝置同步；清除網站資料會失去進度。網頁關閉時不發背景通知，重新開啟後才恢復與結算。
 
-**AI 協作與修正：** 先與 AI 討論並選定「專注小島」，整理功能與驗收規格，再製作單檔網頁。檢查後補上 hidden 優先樣式，避免隱藏內容仍出現；修正超界日期資料可能讓植物介紹出錯的問題；為手機導覽補上可存取名稱，並改善手機標籤換行。實際操作驗證任務管理、暫停與重整恢復、10 秒體驗，以及一分鐘正式專注；另以模擬時間執行 14 項狀態與保存測試，全數通過。
+**AI 協作與修正：** 先與 AI 討論並選定「專注小島」，整理功能與驗收規格，再製作單檔網頁。檢查後補上 hidden 優先樣式，避免隱藏內容仍出現；修正超界日期資料可能讓植物介紹出錯的問題；為手機導覽補上可存取名稱，並改善手機標籤換行。之後依使用回饋將植物由 4 種增加至 12 種，新增可預覽造型與收集狀態的植物圖鑑，並驗證原有進度仍可保留。實際操作驗證任務管理、暫停與重整恢復、10 秒體驗，以及一分鐘正式專注；另以模擬時間執行 18 項計時、保存與植物收藏測試，全數通過。
 
 **公開驗證：** 已透過 GitHub Pages 發布，確認公開網址正常回傳網頁，並直接在公開網站完成新增任務及 10 秒體驗種植。

diff --git a/TEST_RESULTS.md b/TEST_RESULTS.md
@@ -15,14 +15,14 @@
 | 自訂分鐘 | 通過。0 分鐘被阻擋並顯示 1～60 整數提示，1 分鐘可設定並開始。 |
 | 1 分鐘正式專注 | 通過。實際等待完成，正式統計增加 1 分鐘與 1 輪，植物總數由 1 增為 2。 |
 | 收藏與 Escape | 通過。可開啟植物介紹、查看全部；Escape 能關閉植物介紹。收藏總數及體驗數正確。 |
-| 響應式 | 通過。桌面 1280×1000、手機 390×844 皆無水平溢出，已保存完整截圖。 |
+| 響應式 | 通過。桌面 1280×1000、手機 390×844 皆無水平溢出，已保存桌面完整與手機畫面截圖。 |
 | 窄螢幕可存取名稱 | 通過。手機導覽可讀到三個中文名稱，使用說明入口可辨識。 |
 
 截圖：`screenshots/desktop-verified.jpg`、`screenshots/mobile-verified.jpg`。畫面是本機操作驗證後的真實測試資料，與網站使用相同網頁檔案；新訪客從空小島開始。
 
 ## 可重現的狀態邏輯測試
 
-執行 `node tests/timer-check.cjs`，結果 **14 通過、0 失敗**。
+執行 `node tests/timer-check.cjs`，結果 **18 通過、0 失敗**。
 
 測試涵蓋正式完成、休息不獎勵、已完成重載、過期執行中重載、損壞 JSON、錯誤結構、儲存失敗、讀取失敗、暫停恢復、繼續完成、體驗不計正式統計，以及任務／植物／截止日期超界的三項恢復測試。
 
@@ -35,8 +35,17 @@
 - 未帶登入資訊請求公開網址，回傳 HTTP 200；下載的網頁與本機 index.html 內容一致。
 - 在公開網址的真實瀏覽器中，從空小島新增任務並完成 10 秒體驗：增加一株體驗植物，正式分鐘與輪數仍為零。
 - 公開網頁不含外部 script 或 stylesheet 依賴。
[2 lines of base64/hex data omitted]
 
 ## 驗證限制
 
 未在不同瀏覽器品牌或實體手機逐一測試，未使用螢幕閱讀器完整走查，未測試 10,000 株植物的上限效能。多分頁合併與跨裝置同步不在規格範圍內。
+
+
+## 植物擴充版驗證（2026-10-16）
+
+- 植物由 4 種增加至 12 種；新增八款內嵌 SVG，仍為單一 HTML。
+- 新增四項測試：連續 12 輪得到 12 種且都有插畫與介紹、第 13 輪循環但不覆蓋舊收藏、舊版四種植物與任務及暫停計時資料恢復、預覽圖鑑不增加獎勵。合計 18 項通過。
+- 真實瀏覽器確認原有兩株收藏與任務保留；圖鑑顯示 2 / 12 種，未收集的櫻花可預覽，關閉後回到圖鑑。
+- 圖鑑截圖：screenshots/plant-catalog.jpg。
+- 擴充版於桌面 1280px、手機 390px 檢查；圖鑑無水平溢出，手機可開啟最後一款櫻花並返回。手機截圖保存首頁可見範圍。

diff --git a/SPEC.md b/SPEC.md
@@ -1,6 +1,6 @@
 # 專注小島 Focus Island｜Web App 規格書
 
-版本：1.0｜日期：2026-10-16
+版本：1.1｜日期：2026-10-16
 
 ## 1. 作品目標
 
@@ -25,11 +25,12 @@
 | F04 | 設定專注 | 預設 25 分鐘；提供 15、25、45 分鐘及 1～60 分鐘的自訂時間。 |
 | F05 | 控制倒數 | 提供開始、暫停、繼續、重設。開始後不能直接改變本輪時長；重設進行中的一輪前先確認。 |
 | F06 | 短暫休息 | 提供 5 分鐘休息模式；休息結束不獲得植物，也不計入專注分鐘與輪數。 |
-| F07 | 種植回饋 | 每完成一輪正式專注獲得一株植物，小島與收藏同步更新。中途暫停或重設不獎勵。勾選任務不直接獎勵植物。 |
+| F07 | 種植回饋 | 每完成一輪正式專注獲得一株植物，小島與收藏同步更新。共有 12 種植物，依獲得順序循環出現。中途暫停或重設不獎勵。勾選任務不直接獎勵植物。 |
 | F08 | 快速體驗 | 提供 10 秒體驗倒數，結束後獲得清楚標示的體驗植物。體驗不計入正式專注分鐘與輪數，植物總數包含體驗植物。 |
 | F09 | 成果統計 | 顯示今日正式專注分鐘、完成輪數與累積植物。輪次歸屬於原定倒數結束時間的裝置本地日期；隔天重新開啟才結算，也保留原日期。 |
 | F10 | 本機保存 | 保存任務、植物、統計與計時狀態；同一網址、同一瀏覽器重新整理後恢復進度。 |
 | F11 | 使用說明 | 可開啟說明視窗，查看操作、獎勵規則與資料保存限制。 |
+| F12 | 植物圖鑑 | 可預覽全部 12 種植物、專屬文字及已收集狀態；圖鑑預覽不會增加植物或統計。擴充後保留原有四種植物、任務與計時進度。 |
 
 ## 4. 計時與資料規則
 

diff --git a/AI_NOTES.md b/AI_NOTES.md
@@ -42,3 +42,11 @@
 ## GitHub Pages 公開驗證
 
 使用既有 GitHub 登入建立公開儲存庫，將 main 分支根目錄設定為發布來源。公開網址為 https://xinyou1220.github.io/focus-island/ ，已確認 HTTP 200、公開網頁與本機原始碼一致，並直接在公開網址測試新增任務與 10 秒種植。未將使用者的本機任務進度上傳至網站。
+
+
+## 2026-10-16：依使用回饋增加植物
+
+- 使用者希望增加植物種類。由原本 4 種擴充到 12 種，加入仙人掌、多肉、龜背芋、向日葵、薰衣草、鬱金香、青竹與櫻花。
+- 增加植物圖鑑，可直接預覽全部造型、介紹與收集狀態，預覽不會增加成果；保留原有資料格式與收藏。
+- 新增四項收藏與資料相容性檢查，合計 18 項通過；實際在瀏覽器確認舊收藏仍保留、圖鑑及介紹視窗可操作。
+- 依使用者偏好，公開 README 改為專案介紹，內容著重功能、操作與技術。
